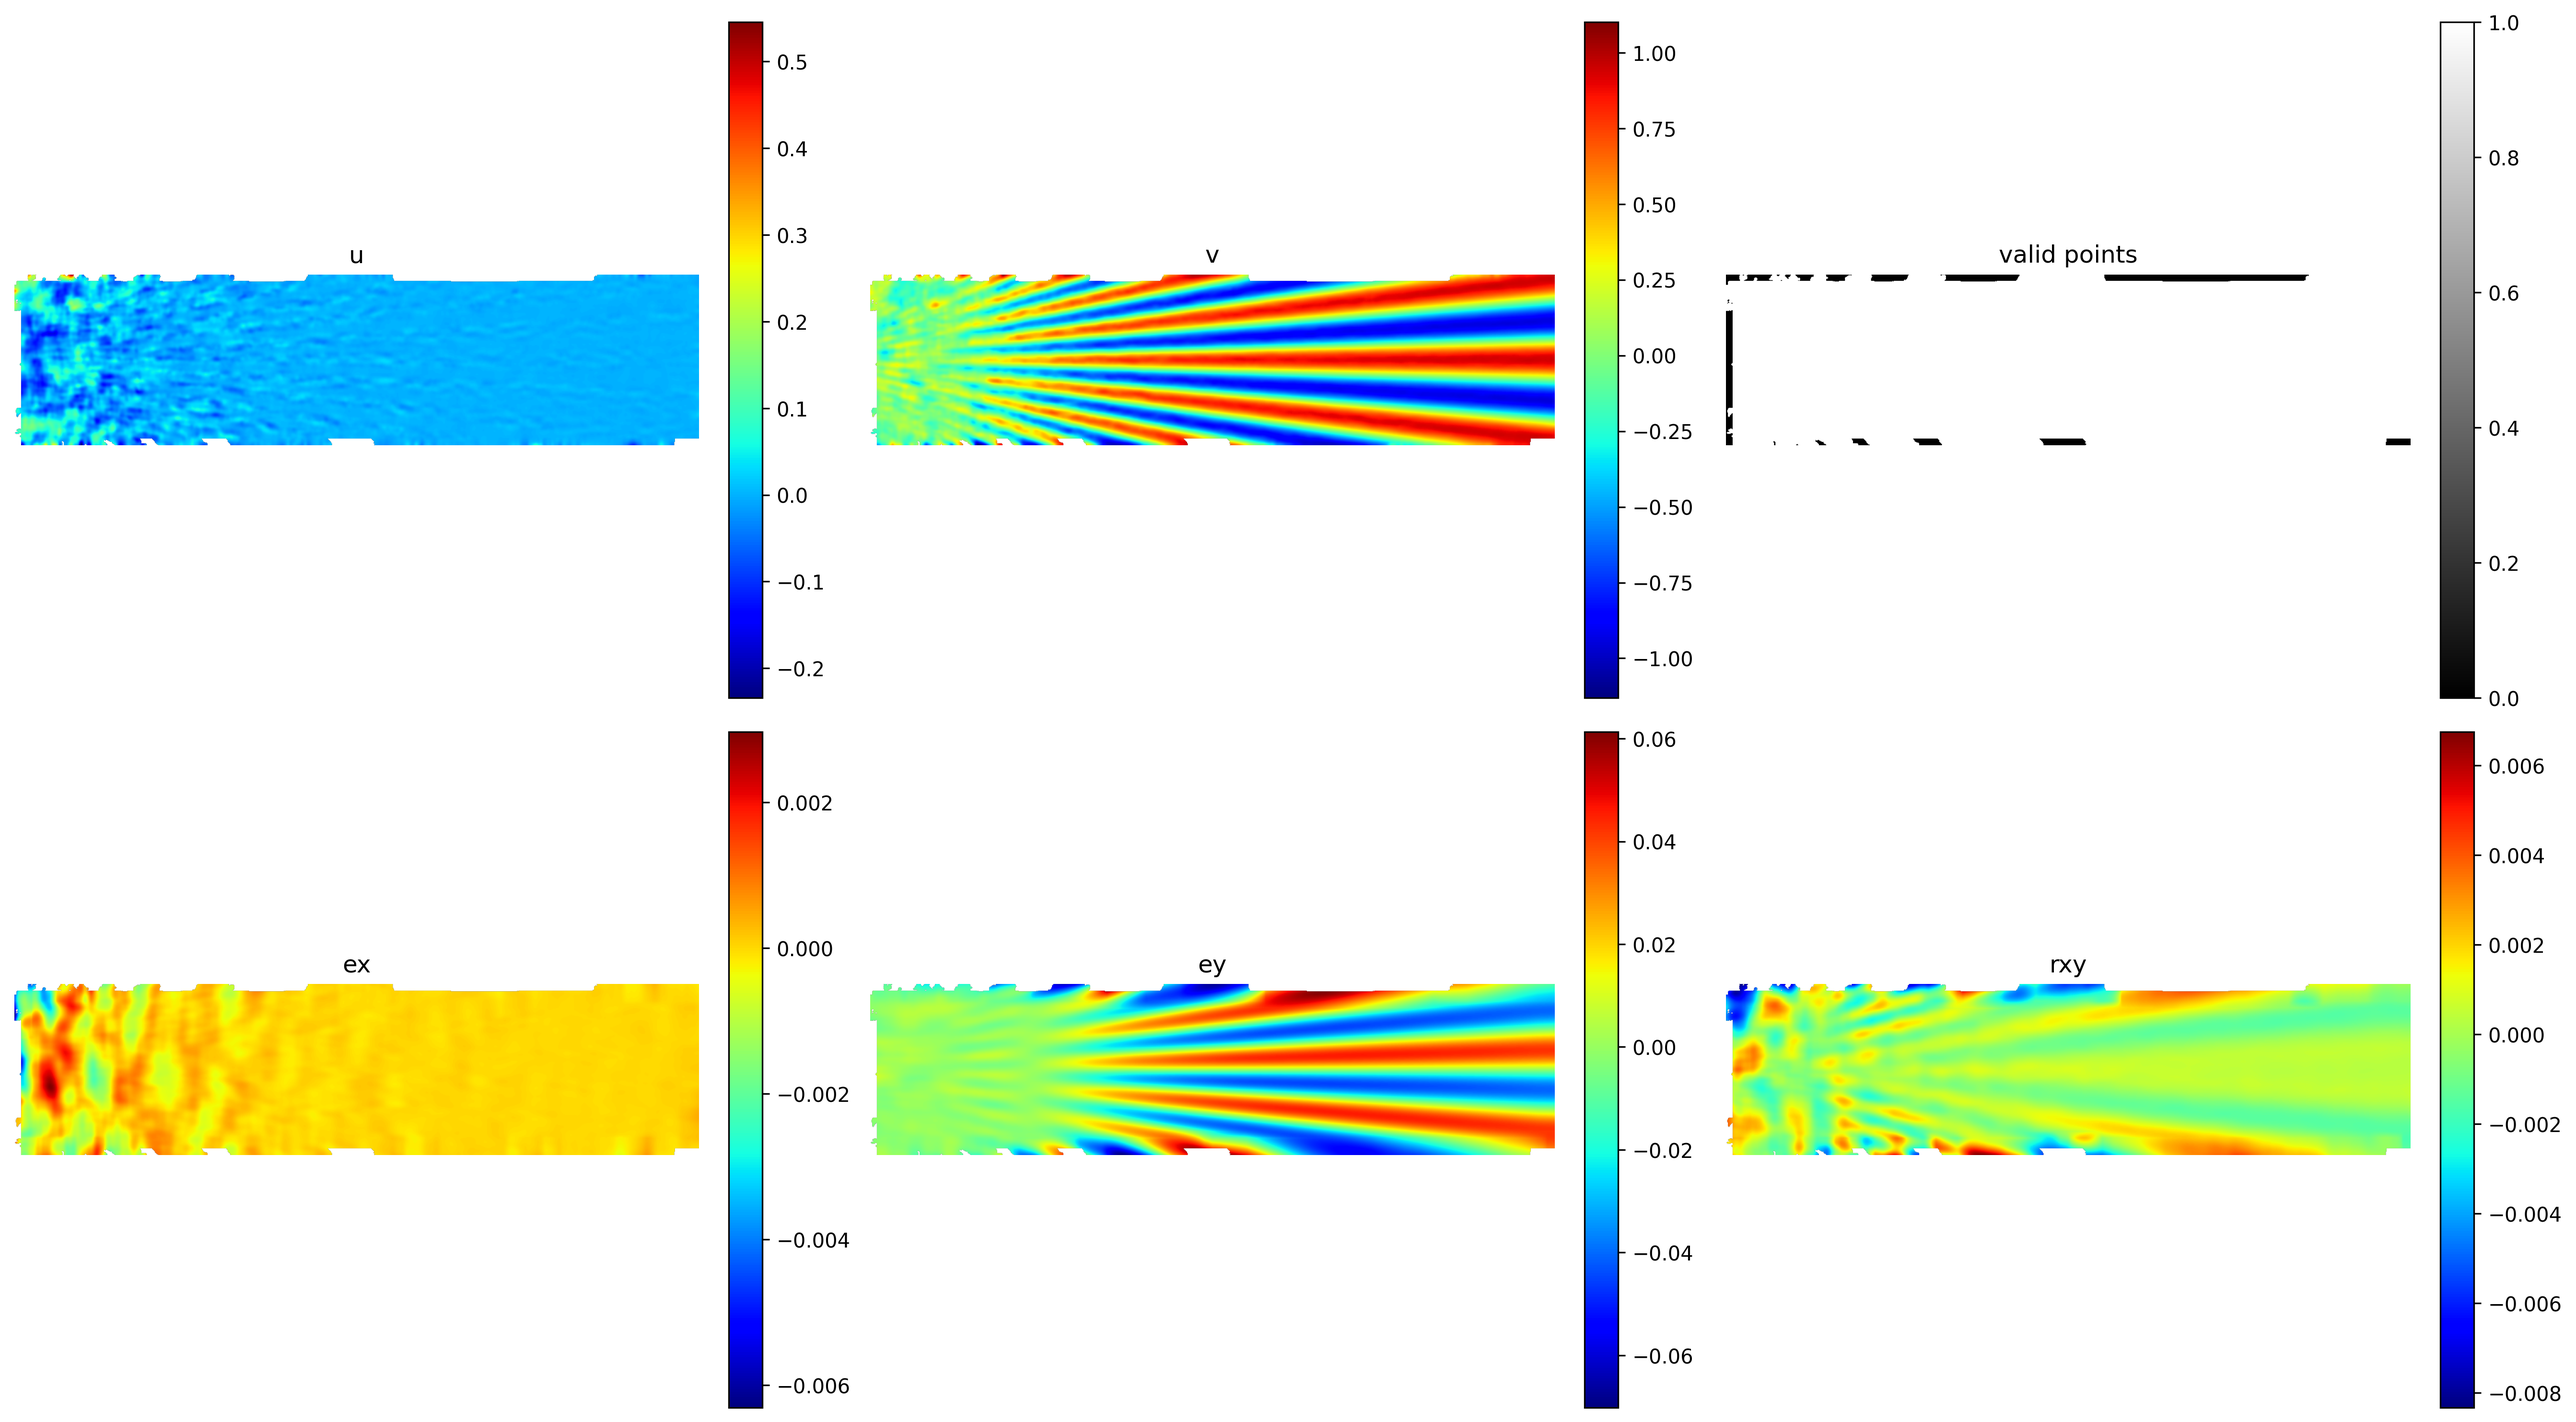
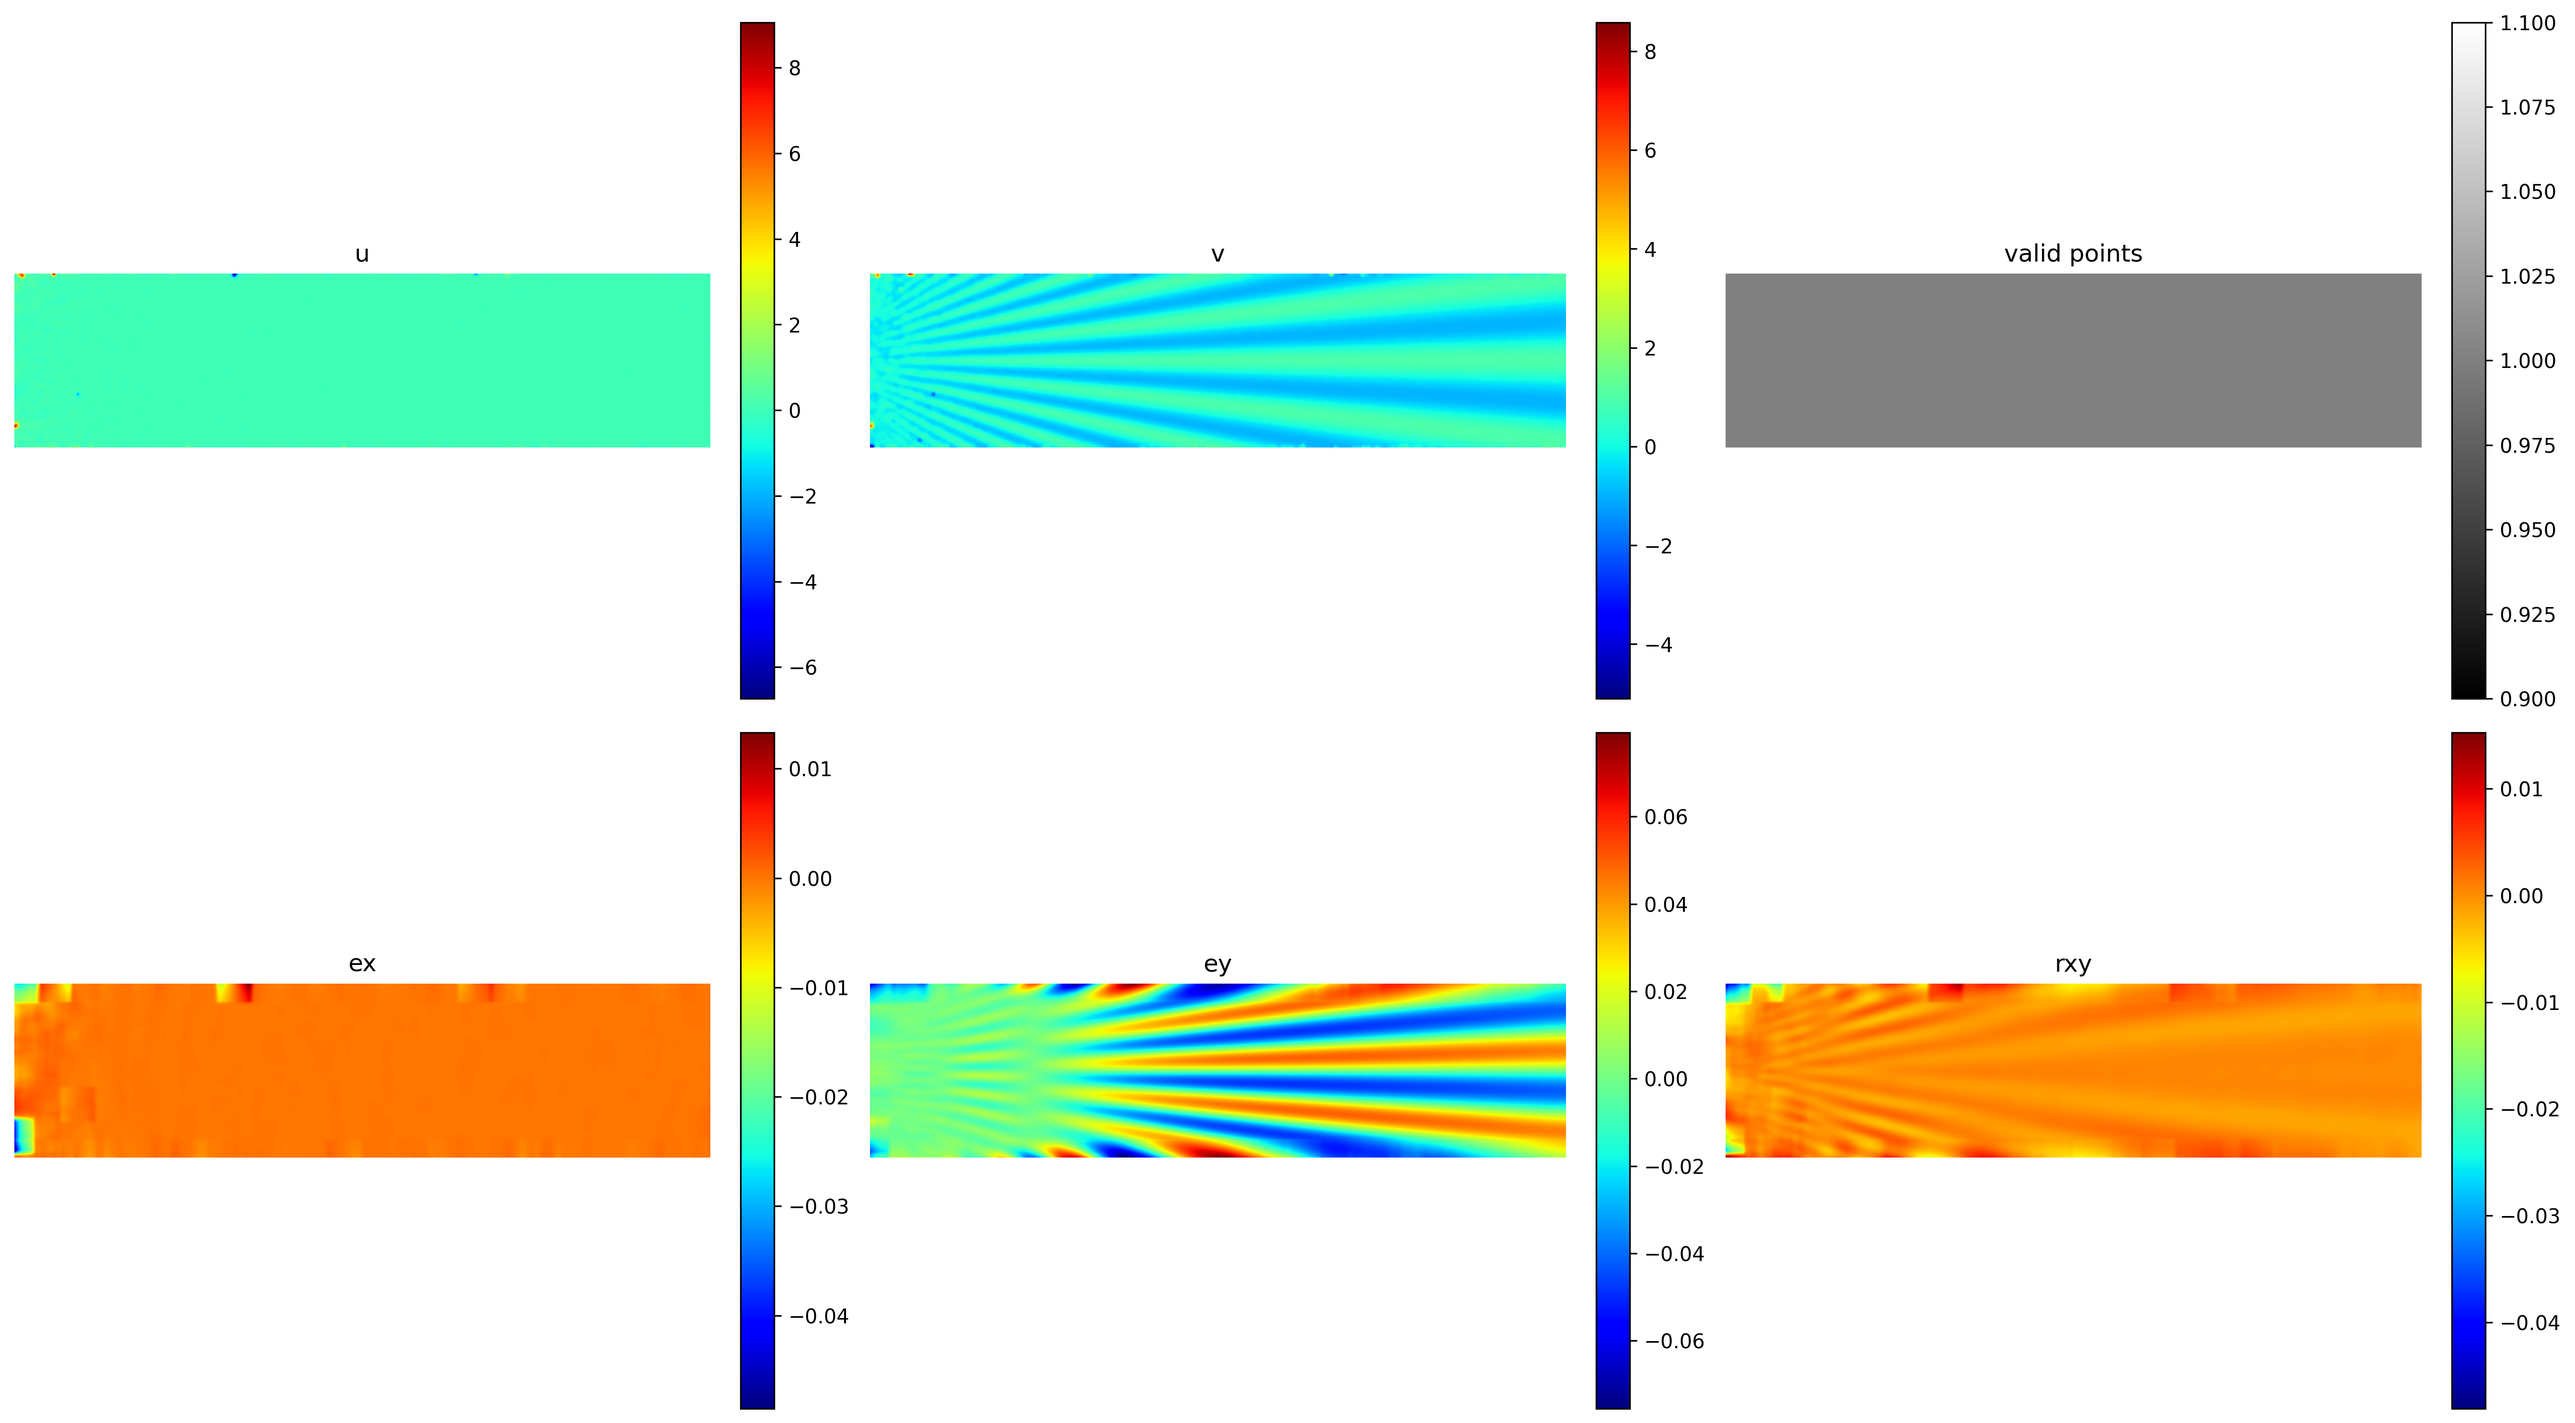
asd

Changed region(s): [[0.0, 0.0, 0.9948, 0.9922], [0.9637, 0.0, 0.9948, 0.031]]

diff --git a/DIC_main_solve.py b/DIC_main_solve.py
@@ -166,7 +166,51 @@ def analysis_queue(queue, seed_info, pbar, pbar_lock, stop_event):
                 pbar_lock = pbar_lock,
                 stop_event = stop_event
                 )
-       
+        if queue:
+            continue
+        else:
+            with Subset_DIC_Buffer.data_lock:
+                ys_u, xs_u = np.where(
+                    (Subset_DIC_Buffer.threaddiagram == num_thread) & \
+                        (~Subset_DIC_Buffer.plot_calcpoints) & \
+                            BufferManager.mask[num_region]
+                    )
+            Num_left_points =len(ys_u)
+            if Num_left_points== 0:
+                continue
+            else:
+                continue_re_seed_flag = True
+                while continue_re_seed_flag:
+                    random_idx = np.random.randint(0, Num_left_points)
+                    seed_y = ys_u[random_idx]
+                    seed_x = xs_u[random_idx]
+                    outstate, defvector, corrcoef = re_cal_failed_points(
+                        cy=seed_y, cx=seed_x, num_region=num_region
+                    )
+                    if (outstate == SUCCESS and corrcoef < 1.0):
+                        Subset_DIC_Buffer.plot_validpoints[seed_y,seed_x] = True
+                        paramvector = (seed_x, seed_y, defvector, corrcoef, num_region, num_thread)
+                        queue.append(paramvector)
+                        continue_re_seed_flag = False
+                    else:
+                        with Subset_DIC_Buffer.data_lock:
+                            Subset_DIC_Buffer.plot_u[seed_y,seed_x] = defvector[0]
+                            Subset_DIC_Buffer.plot_v[seed_y,seed_x] = defvector[1]
+                            Subset_DIC_Buffer.plot_corrcoef[seed_y,seed_x] = corrcoef
+                        continue_re_seed_flag = True
+                    Subset_DIC_Buffer.plot_calcpoints[seed_y,seed_x] = True
+                    if pbar is not None and pbar_lock is not None:
+                        with pbar_lock:
+                            pbar.update(1)
+                    ys_u, xs_u = np.where(
+                            (Subset_DIC_Buffer.threaddiagram == num_thread) & \
+                                (~Subset_DIC_Buffer.plot_calcpoints) & \
+                                    BufferManager.mask[num_region]
+                            )
+                    Num_left_points =len(ys_u)
+                    if Num_left_points== 0:
+                        continue_re_seed_flag = False
+                    
 
 def analyzepoint(queue, x, y, defvector_init, num_region, num_thread, pbar, pbar_lock, stop_event):
     if stop_event.is_set():   # 立即退出该点计算
@@ -197,6 +241,13 @@ def analyzepoint(queue, x, y, defvector_init, num_region, num_thread, pbar, pbar
         queue.append(paramvector)
         Subset_DIC_Buffer.plot_validpoints[y,x] = True
     else:
+        # 失败了再从新整像素搜索和亚像素匹配执行，re_cal_failed_points
+        outstate, defvector, corrcoef = re_cal_failed_points(cy=y, cx=x, num_region=num_region)
+        if (outstate == SUCCESS and
+            corrcoef < cutoff_corrcoef):
+            paramvector = (x, y, defvector, corrcoef, num_region, num_thread)
+            # queue.append(paramvector)
+            Subset_DIC_Buffer.plot_validpoints[y,x] = True
         with Subset_DIC_Buffer.data_lock:
             Subset_DIC_Buffer.plot_u[y,x] = defvector[0]
             Subset_DIC_Buffer.plot_v[y,x] = defvector[1]

diff --git a/DIC_cal_seed.py b/DIC_cal_seed.py
@@ -193,24 +193,10 @@ if __name__ == "__main__":
 
     cfg = load_dic_config("./config.json")
     imgGenDataset = Img_Dataset(cfg)
-    
     imgGenDataset._get_QK_QKdx_QKdxx()
-    imgGenDataset._get_roiRegion()
-    # print("_get_QK_QKdx_QKdxx over")
-    
-    start_time = time.time()
     refImg, ref_bcoef = imgGenDataset._get_refImg()
-    total_time = time.time()-start_time
-    # print("_get_refImg over")
-    print(f"cost {total_time}s")
-    print()
-    
-    start_time = time.time()
     imgGenDataset._get_image_gradient()
-    total_time = time.time()-start_time
-    # print("_get_image_gradient over")
-    print(f"cost {total_time}s")
-    print()
+
     
     seed_solver = seed_math(ROI_LIST=BufferManager.mask, config=cfg)
     
@@ -218,16 +204,29 @@ if __name__ == "__main__":
         imgGenDataset, batch_size=1, 
         shuffle=False, collate_fn=collate_fn)
     
+    subset_r = cfg.subset_half_size
+    search_radius = cfg.search_radius
+    max_iter = cfg.max_iterations
+    cutoff_diffnorm = cfg.cutoff_diffnorm
+    lambda_reg = cfg.lambda_reg
+    
+    x_offsets = np.arange(-subset_r, subset_r + 1, dtype=np.int32)
+    y_offsets = np.arange(-subset_r, subset_r + 1, dtype=np.int32)
+    xv, yv = np.meshgrid(x_offsets, y_offsets)  # shape (S,S)
+    X_flat = xv.reshape(-1)   # (subset_area,)
+    Y_flat = yv.reshape(-1)
+    
     for idx, DimageL in enumerate(img_loader):
-        start_time = time.time()
-        results = seed_solver.solve_all_seed_points()
-        total_time = time.time()-start_time
-        print(f"cost {total_time*1000}ms")
-        print()
-        # 2⃣ 打印 defvector 的前两个元素
-        print("\n=== defvector 前两个值 ===")
-        for (cx, cy, flag, defvector, corrcoef) in results:
-            print(f"({cx},{cy}) flag={flag}: {defvector[:2]}, Ncc[{corrcoef}]")
+        flag, defvector, corrcoef = cal_seed_point(
+                cy=249, cx=1023,
+                X_flat=X_flat,
+                Y_flat=Y_flat,
+                subset_r=subset_r,
+                search_radius=search_radius,
+                max_iter=max_iter,
+                cutoff_diffnorm=cutoff_diffnorm,
+                lambda_reg=lambda_reg
+            )
         
     
 
